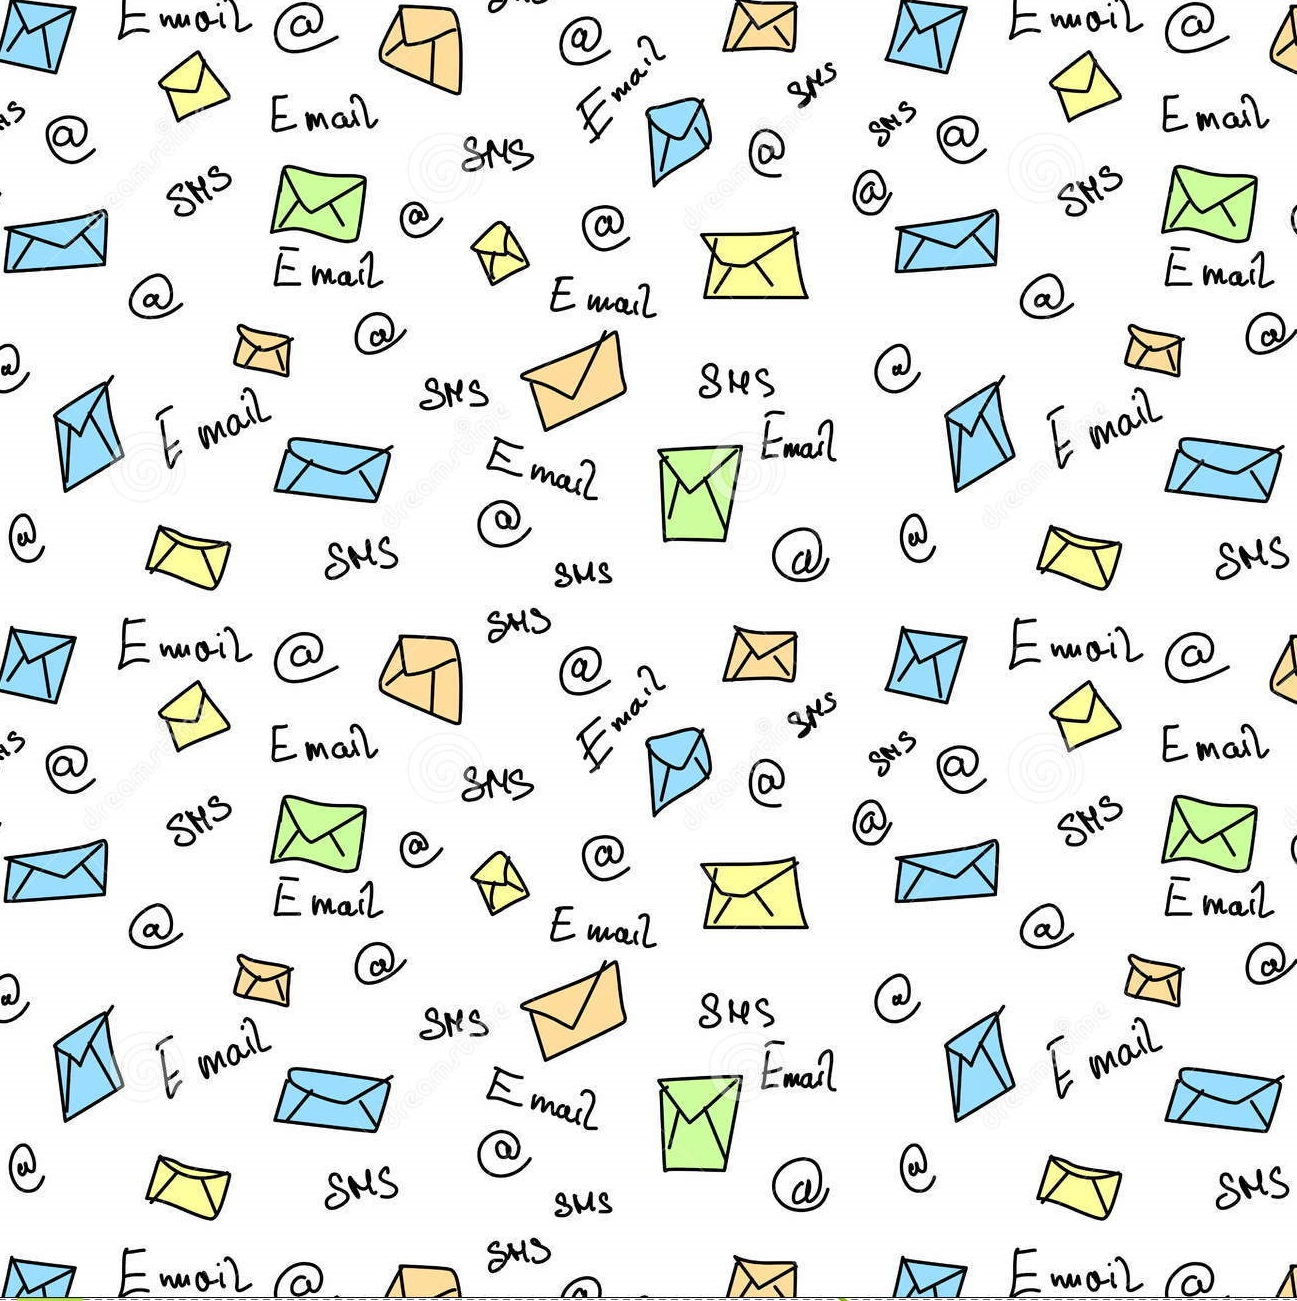
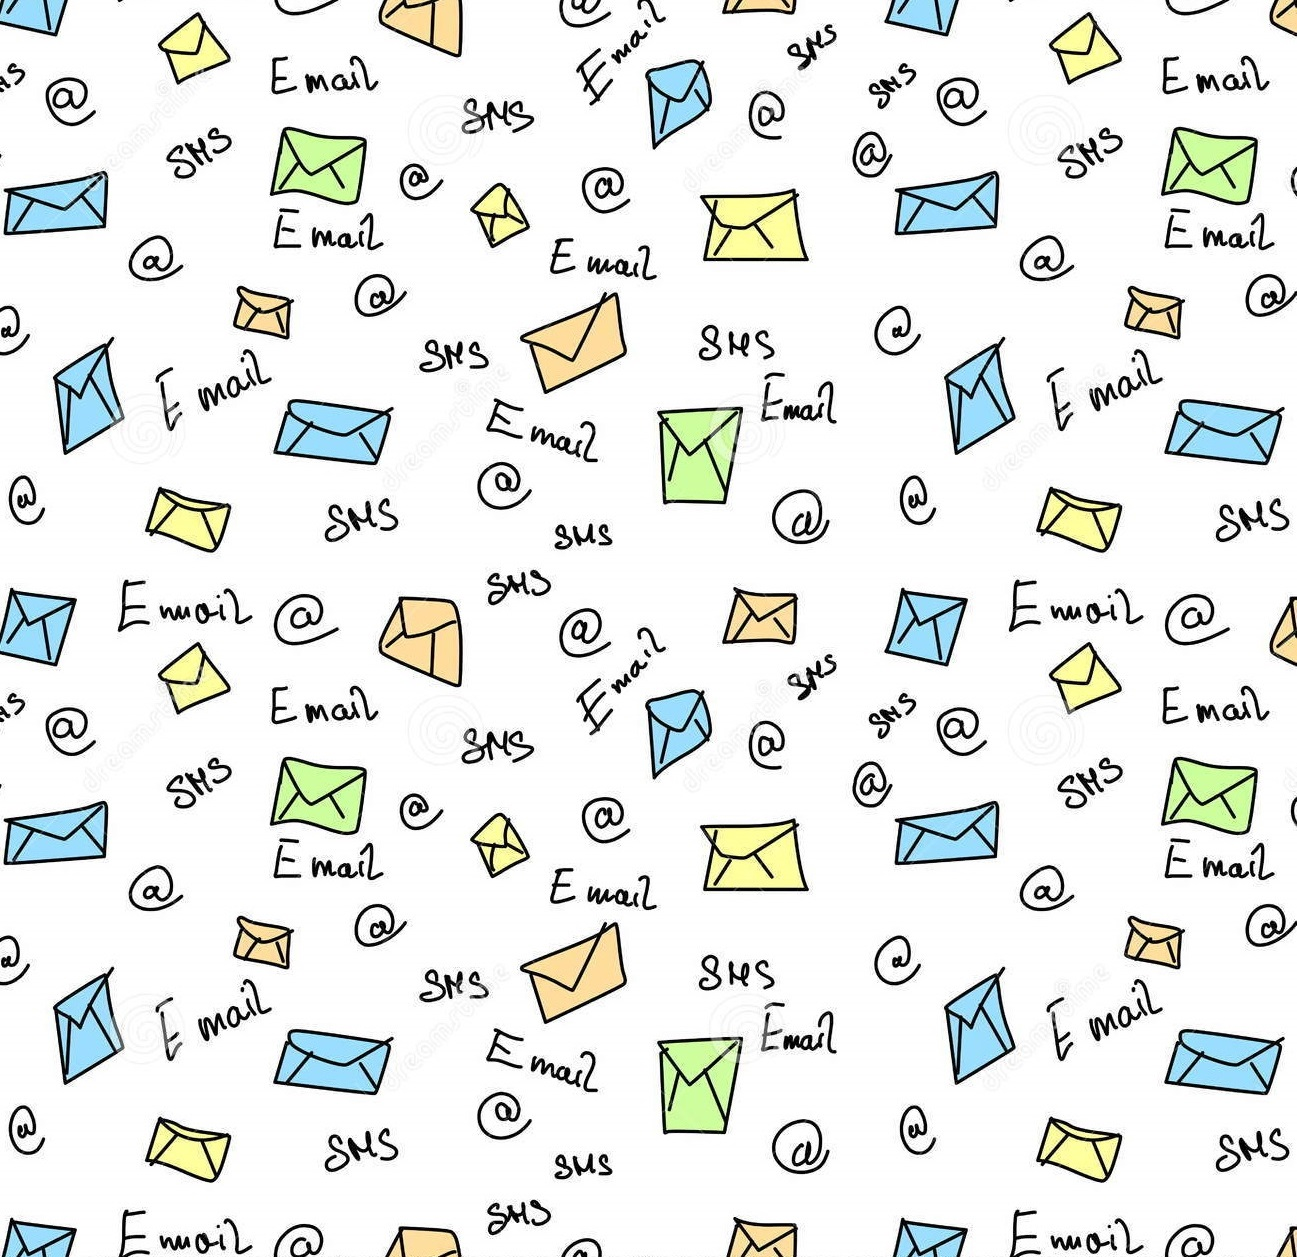
google maps design

diff --git a/web/css/site.css b/web/css/site.css
@@ -1,7 +1,7 @@
 html,
 body {
     height: 100%;
-    background: url('silver.jpg');/*#337ab7;*/
+    background: url('maiil.jpg');/*#337ab7;*/
     background-size:contain;
 }
 

diff --git a/views/mail/map.php b/views/mail/map.php
@@ -14,11 +14,17 @@ $this->title="Розрахунок часу доставки";
         height: 400px;
     }
 </style>
-<div>Час відправки посилок в 19:00 кожного дня.</div>
+</style>
+<div class="box-shadow" style="padding:10px; text-align:left; margin-top:30px;">
+<div id="data1" ></div>
+<h2>Час відправки посилок в 21:00 кожного дня.</h2>
 <div id="travel_data">
-
+<div id="data2" ></div>
 </div>
+</div>
+<div class="box-shadow" style="margin-top:30px; padding:20px;">
 <div id="map">
+</div>
 </div>
 <?php
 echo "<script>
@@ -58,7 +64,6 @@ echo "<script>
          origin: {lat: ".$city1->lat. ", lng: ".$city1->lng."},
          destination: {lat: ".$city2->lat. ", lng: ".$city2->lng."},
             travelMode: 'DRIVING',
-            travelMode: 'DRIVING',
         
          };
          directionsService.route(request, function(response,status) {
@@ -72,6 +77,12 @@ echo "<script>
          $( '#travel_data' ).html( '<h2>Час доставки: ' + point.duration.text + ' (' + point.distance.text + ')</h2>' );
     }
          });
+         var d = new Date();
+         var curr_date = d.getDate();
+         var curr_month = d.getMonth() + 1;
+         if(curr_month<10){curr_month='0'+curr_month;}
+         var curr_year = d.getFullYear();
+         $( '#data1' ).html( '<h2>Дата віправки:'+curr_date + '.' + curr_month + '.' + curr_year + '</h2>' );
          }
 </script>";
 ?>

diff --git a/modules/admin/views/layouts/admin.php b/modules/admin/views/layouts/admin.php
@@ -16,11 +16,13 @@ AppAsset::register($this);
 <html lang="<?= Yii::$app->language ?>">
 <head>
     <meta charset="<?= Yii::$app->charset ?>">
-    <meta name="viewport" content="width=device-width, initial-scale=1">
+    <meta name="viewport" content="width=device-width">
     <?= Html::csrfMetaTags() ?>
     <?php $this->head() ?>
 </head>
+
 <body>
+<div style="background: white;">
 <?php $this->beginBody() ?>
 <div class="wrap">
     <?php
@@ -65,6 +67,7 @@ AppAsset::register($this);
             'links' => isset($this->params['breadcrumbs']) ? $this->params['breadcrumbs'] : [],
         ]) ?>
         <?= $content ?>
+
     </div>
 </div>
 
@@ -77,6 +80,7 @@ AppAsset::register($this);
 </footer>
 
 <?php $this->endBody() ?>
+</div>
 </body>
 </html>
 <?php $this->endPage() ?>
